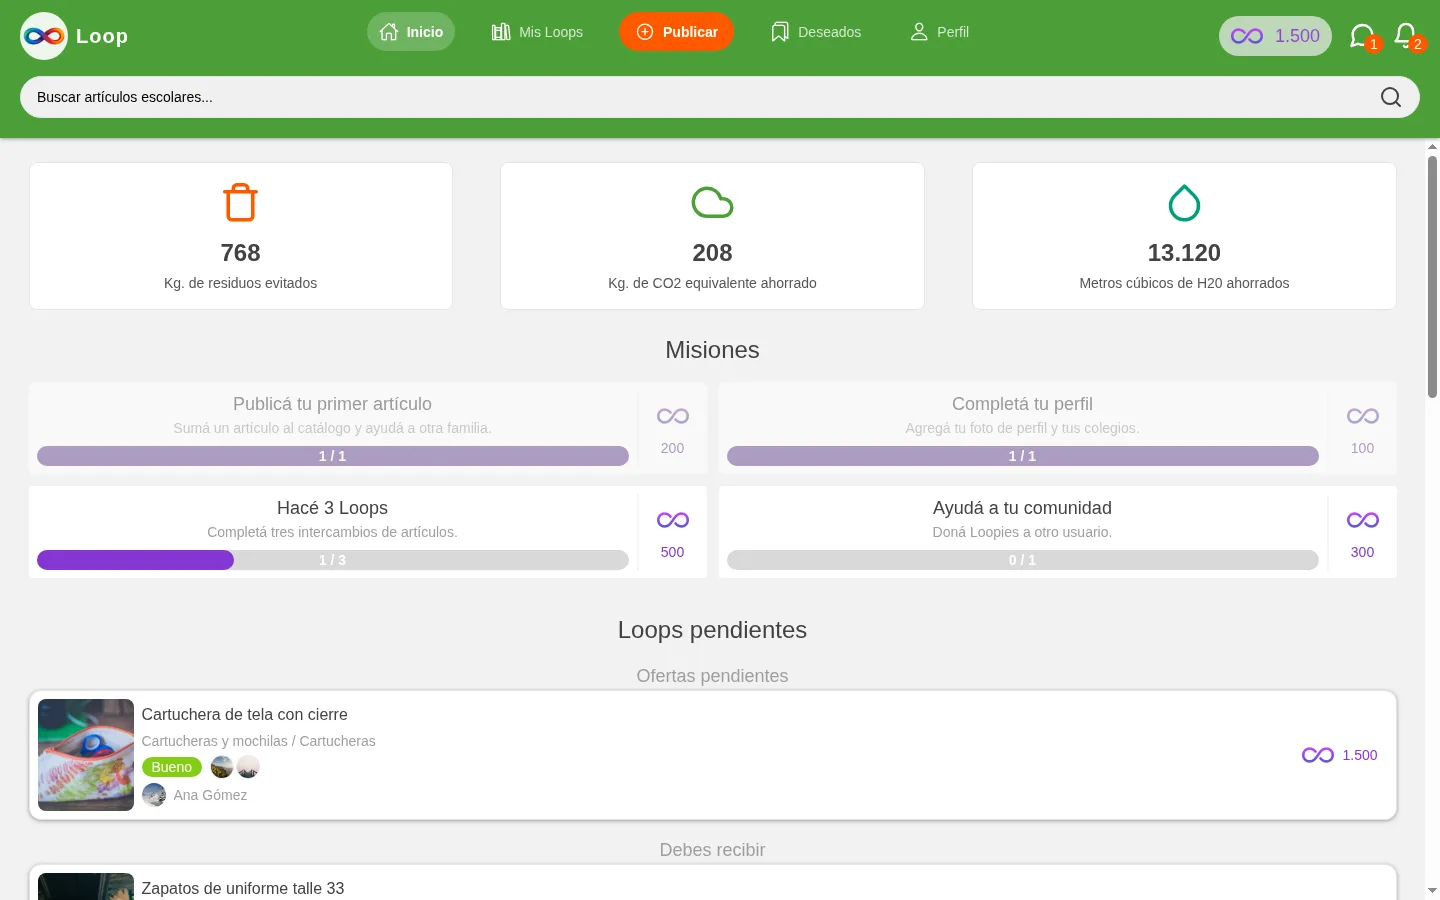
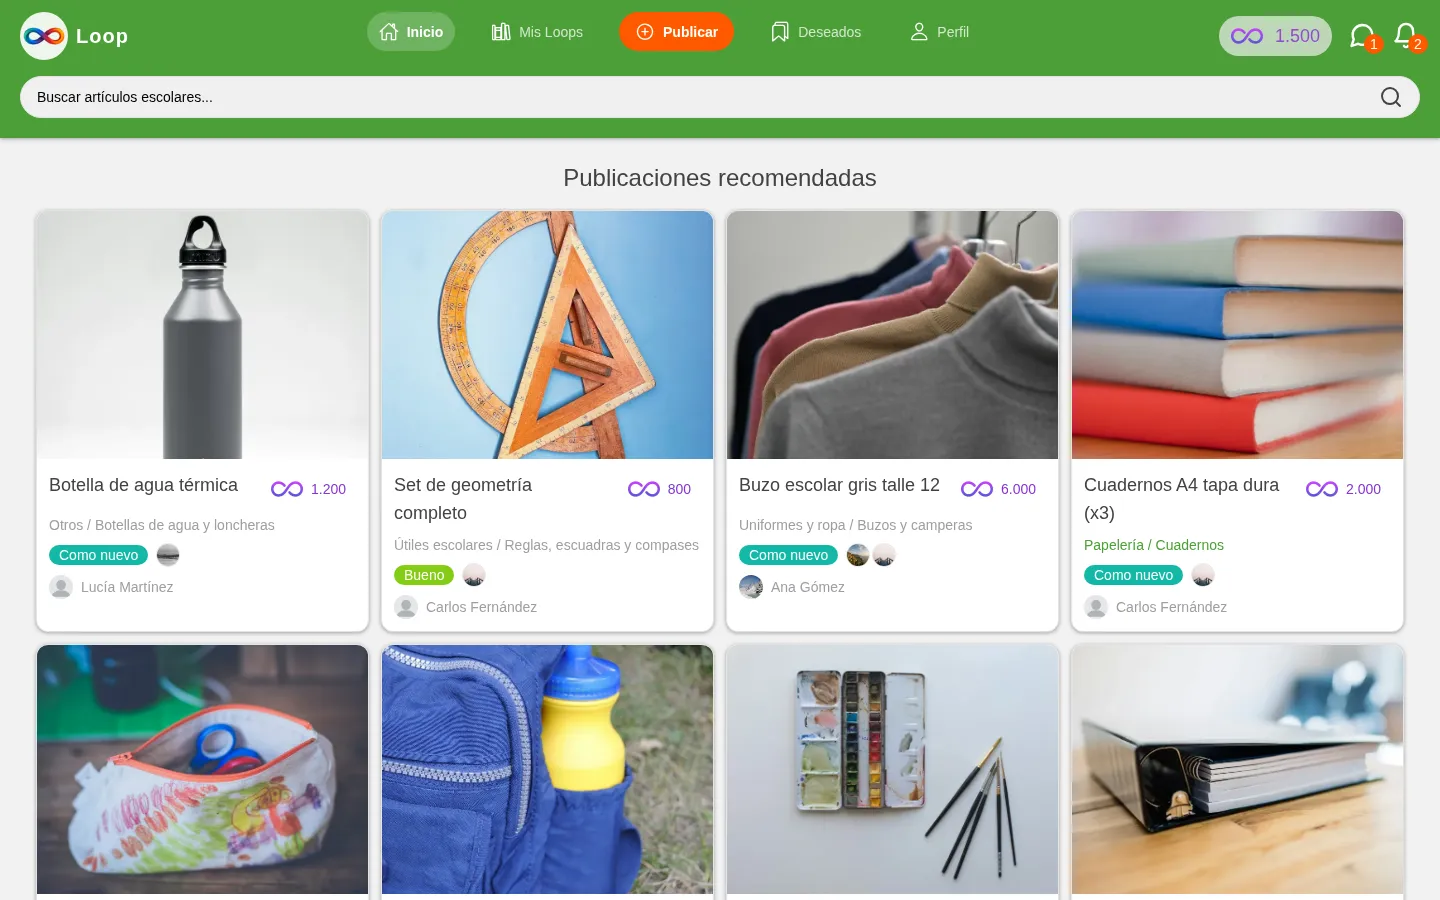
feat(client): recapture landing screenshots, add share image
- phone-home and desktop-home captured from the framed /demo (feed first, no impact figures, no
  mission cards), so the poster matches the live iframe's first paint
- phone-received replaces phone-listing for step 4; phone-listing removed
- 1200x630 share-image.png from the finished hero (153 KB)
- Cómo funciona selects on hover only from lg, so collapsing steps no longer chase the pointer

diff --git a/client/components/landing/LandingHowItWorks.tsx b/client/components/landing/LandingHowItWorks.tsx
@@ -3,7 +3,7 @@ import { useThemeColors } from "@/hooks/useThemeColors";
 import type { ComponentType } from "react";
 import { useState } from "react";
 import type { ImageSourcePropType } from "react-native";
-import { Pressable, View } from "react-native";
+import { Pressable, useWindowDimensions, View } from "react-native";
 import Text from "./LandingText";
 import { HOW_IT_WORKS_STEPS } from "./content";
 import { PhoneShell, ScreenImage } from "./DeviceFrame";
@@ -20,6 +20,9 @@ type Props = {
   /** One real capture per step id (`content.ts`'s `HOW_IT_WORKS_STEPS`). */
   stepScreenshots: Record<string, ImageSourcePropType>;
 };
+
+/** Tailwind `lg` breakpoint, where the steps stop collapsing. */
+const LG_MIN_WIDTH = 1024;
 
 type IconProps = { color?: string; size?: number };
 
@@ -39,6 +42,10 @@ const STEP_ICONS: Record<string, ComponentType<IconProps>> = {
 export default function LandingHowItWorks({ stepScreenshots }: Props) {
   const colors = useThemeColors();
   const [activeId, setActiveId] = useState(HOW_IT_WORKS_STEPS[0].id);
+  // Below `lg` inactive steps collapse to their title, so selecting on hover would move the list
+  // under a mouse pointer and chase it. There, a step changes on press or focus only.
+  const { width } = useWindowDimensions();
+  const selectOnHover = width >= LG_MIN_WIDTH;
   const activeStep = HOW_IT_WORKS_STEPS.find((step) => step.id === activeId)!;
 
   return (
@@ -66,7 +73,7 @@ export default function LandingHowItWorks({ stepScreenshots }: Props) {
                     accessibilityState={{ selected: active }}
                     accessibilityLabel={step.title}
                     onPress={() => setActiveId(step.id)}
-                    onHoverIn={() => setActiveId(step.id)}
+                    onHoverIn={selectOnHover ? () => setActiveId(step.id) : undefined}
                     onFocus={() => setActiveId(step.id)}
                     className={`flex-row items-start gap-4 rounded-3xl border px-5 py-4 transition-colors duration-200 lg:px-6 lg:py-5 ${FOCUS_RING} ${
                       active

diff --git a/client/__tests__/marketing-landing-layout.test.ts b/client/__tests__/marketing-landing-layout.test.ts
@@ -251,6 +251,16 @@ describe("sharing metadata", () => {
     }
   });
 
+  it("ships a 1200x630 share image under 300 KB that the page points at", () => {
+    const file = path.join(CLIENT_ROOT, "public", "share-image.png");
+    const bytes = fs.readFileSync(file);
+    expect(bytes.length).toBeLessThan(300 * 1024);
+    // PNG header: 8-byte signature, then IHDR with big-endian width and height at offsets 16 and 20.
+    expect(bytes.readUInt32BE(16)).toBe(1200);
+    expect(bytes.readUInt32BE(20)).toBe(630);
+    expect(read(path.join(LANDING_DIR, "content.ts"))).toMatch(/share-image\.png/);
+  });
+
   it("keeps the sample-data demo out of search results", () => {
     expect(read(path.join(CLIENT_ROOT, "app", "demo.tsx"))).toMatch(
       /name="robots" content="noindex"/,

diff --git a/client/components/screens/MarketingLanding.tsx b/client/components/screens/MarketingLanding.tsx
@@ -70,8 +70,8 @@ export default function MarketingLanding() {
             publicar: require("../../assets/landing/phone-publish.webp"),
             buscar: require("../../assets/landing/phone-home.webp"),
             coordinar: require("../../assets/landing/phone-chat.webp"),
-            // The listing detail of an exchange already delivered: the seller's side of step 4.
-            recibir: require("../../assets/landing/phone-listing.webp"),
+            // A listing in the "received" state: the exchange closed and its impact recorded.
+            recibir: require("../../assets/landing/phone-received.webp"),
           }}
         />
         <LandingLoopies />
